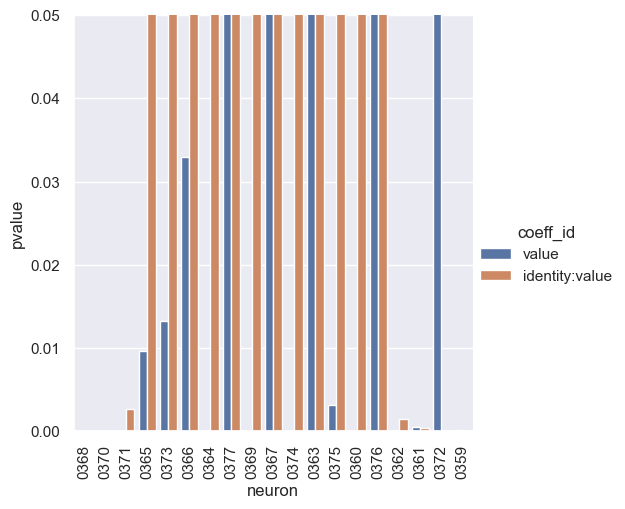
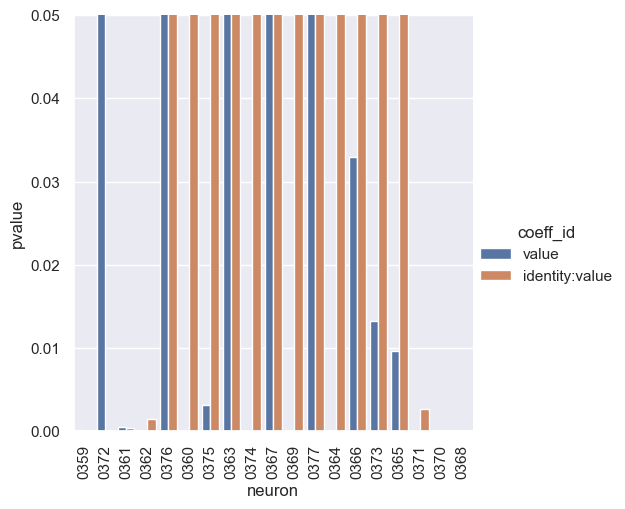
rb_monkey_new_fit: update

diff --git a/experiments/rb_monkey_new_fit/utils.py b/experiments/rb_monkey_new_fit/utils.py
@@ -77,11 +77,11 @@ def train(config):
         data['onset'].append(onset)
 
         identity = {
-            "1.5g banana": +1,
-            "0.3g banana": +1,
-            "0.2ml juice": -1,
-            "0.5ml juice": -1,
-            "0.9ml juice": -1,
+            "1.5g banana": -1,
+            "0.3g banana": -1,
+            "0.2ml juice": +1,
+            "0.5ml juice": +1,
+            "0.9ml juice": +1,
             "empty": 0,
         }[situation]
         data['identity'].append(identity)

diff --git a/experiments/rb_monkey_new_fit/README.md b/experiments/rb_monkey_new_fit/README.md
@@ -17,7 +17,8 @@ python analysis_v1.py \
 "import experiments.rb_monkey_new_fit.utils as eu" \
 "df=eu.proc_df(df, 'bic')" \
 "df=au.reduce(df, ['formula'], lambda df: {'sum_bic': df['bic'].sum()})" \
-"g=sns.relplot(data=df, kind='line', y='sum_bic', x='formula')" \
+"g=sns.catplot(data=df, kind='bar', y='sum_bic', x='formula')" \
+"g.set(ylim=(3380, 3480))" \
 "g.set_xticklabels(rotation=90)"
 ```
 
